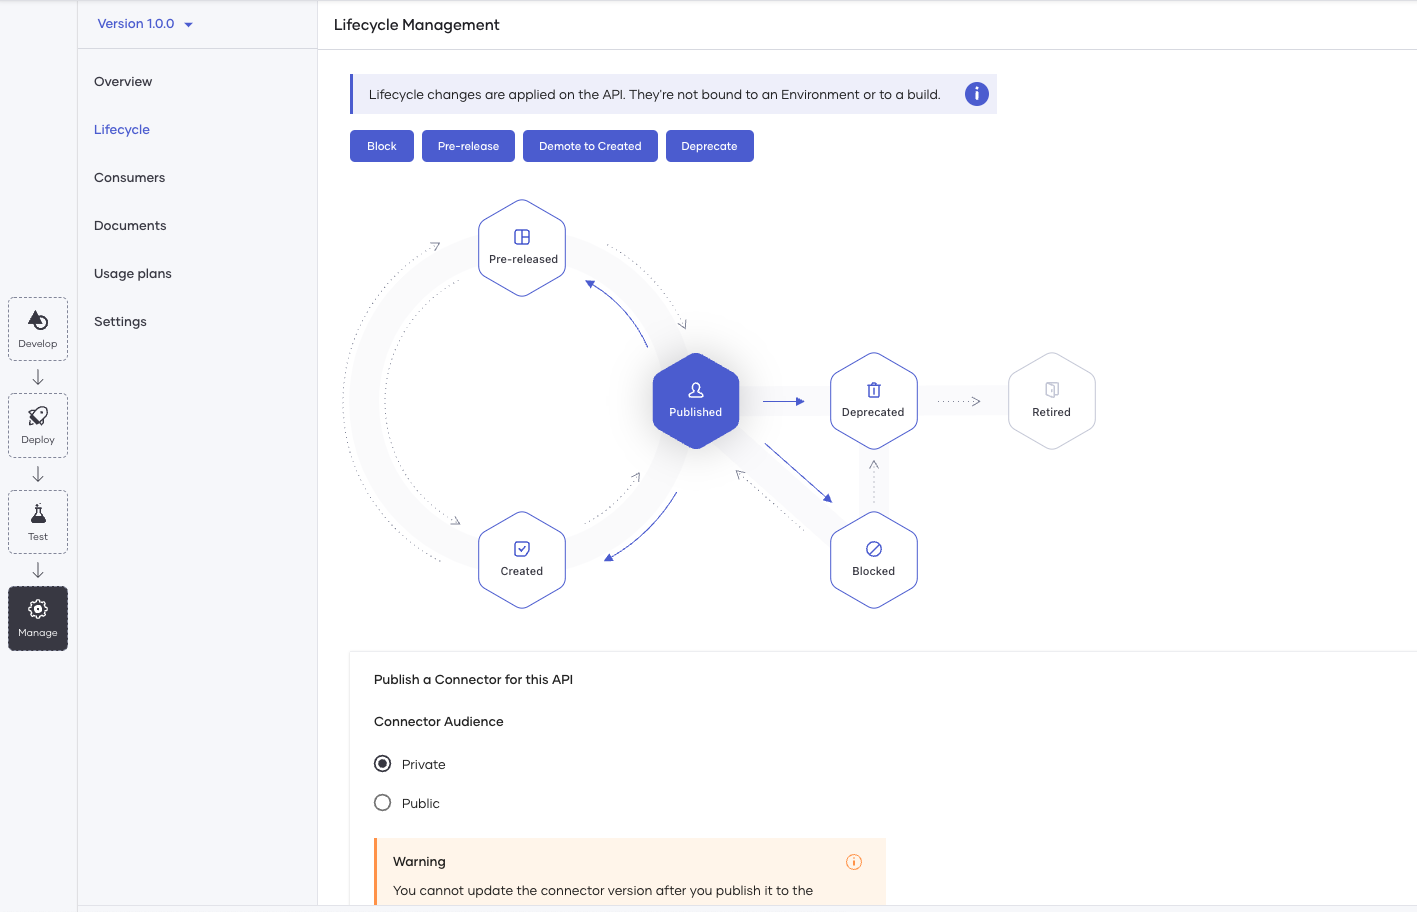
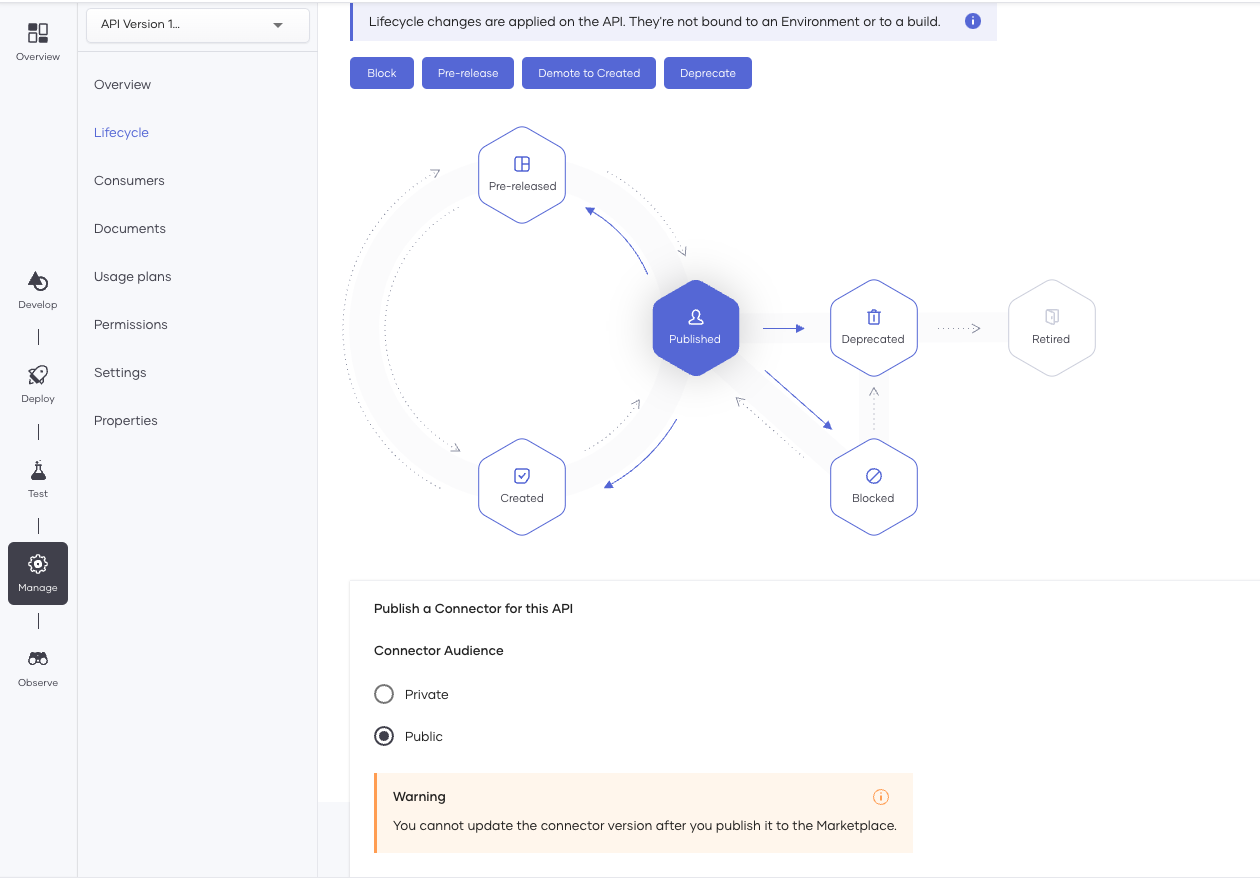
Fix 18088 and remove private github repo references

diff --git a/en/docs/develop/components/rest-api.md b/en/docs/develop/components/rest-api.md
@@ -14,19 +14,19 @@ Choreo’s low-code editor allows developers to design (and develop) high-qualit
 
 Choreo allows you to design your REST API in three possible ways as shown in the image below:
 
-![Create REST API](../../assets/img/rest-apis/create-a-rest-api.png){.cInlineImage-half}
+![Create REST API](../../assets/img/rest-apis/create-a-rest-api.png){.cInlineImage-small}
 
 - **Start from scratch**
 
     You can design a REST API via Choreo’s low-code editor that allows developers to design (and develop) high-quality REST APIs with ease. This method involves designing the REST API from scratch by manually specifying the resources, the HTTP verbs, paths, and other required elements.
   
-    ![Add resource](../../assets/img/rest-apis/add-resource.png){.cInlineImage-full}
+    ![Add resource](../../assets/img/rest-apis/add-resource.png){.cInlineImage-threeQuarter}
 
     Choreo allows developers to easily specify input and output data formats for each API resource:
 
-    ![Configure request payload](../../assets/img/rest-apis/configure-request-payload.png){.cInlineImage-full}
+    ![Configure request payload](../../assets/img/rest-apis/configure-request-payload.png){.cInlineImage-threeQuarter}
 
-    ![Configure response](../../assets/img/rest-apis/configure-response.png){.cInlineImage-full}
+    ![Configure response](../../assets/img/rest-apis/configure-response.png){.cInlineImage-threeQuarter}
 
 - **Connect existing Ballerina repository**
 
@@ -36,40 +36,28 @@ Choreo allows you to design your REST API in three possible ways as shown in the
 
   If you have an existing REST API written in any programming language, you can deploy it in Choreo. To do this, you must generate a Docker image for the REST API and save the Dockerfile in a private GitHub repository. When you connect this GitHub repository to Choreo, you can build the Dockerfile to pull the REST API implementation from the Docker image.
 
-
 ## Developing a REST API
 
-Choreo supports spec-driven API development. Once you have carefully designed and defined your API, you can start implementing the functionality of your API. Choreo comes with an online IDE based on Visual Studio Code for developers to implement API functionality. With its support for both low-code and pro-code modes to implement APIs and the flexibility to alternate between the modes during development, Choreo makes API development easy, smooth, and developer-friendly.
+Choreo supports spec-driven API development. Once you have carefully designed and defined your API, you can start implementing the functionality of your API. Choreo allows you to link a GitHub project when creating the REST API. You can implement your API as a [Ballerina](https://ballerina.io/) project or as in any language as a Docker container and store in the GitHub repo. Alternatively, if you are selecting the Ballerina preset when creating the REST API, you can link an empty GitHub repository, and then proceed to implement it before deploying the REST API. 
 
-### Low-code mode
-
-The following image shows the low-code diagram view in Choreo for a simple API designed to retrieve information such as population and GDP for a specified country. Here, the [World Bank connector](https://lib.ballerina.io/ballerinax/worldbank/1.2.0) extracts the required data and sends the extracted data as a JSON response.
-
-![Low-code view](../../assets/img/rest-apis/low-code-view.png){.cInlineImage-full}
-
-The low-code programming model allows developers to use general programming constructs such as loops, conditional statements, variable declarations and assignments, logs, data transformations(visual data mapping), and more in a graphical editor. It also allows developers to connect to built-in or custom-developed connectors.
-
-The main advantage of the low-code programming mode is that it can increase developer productivity multiple folds by eliminating the need to write complex code. As developers use constructs on the low-code editor to implement the API, the IDE automatically writes the corresponding [Ballerina](https://ballerina.io/) source code for the API, which significantly speeds up the developer learning process and boosts overall productivity.
-
-### Pro-code mode
-
-The pro-code mode of Choreo allows developers to directly edit code in a manner where the graphical representation in the low-code editor gets updated accordingly. Choreo also allows viewing the low-code and pro-code editors side-by-side.
-
-![Low code and pro-code view](../../assets/img/rest-apis/low-code-and-pro-code-view.png){.cInlineImage-full}
-
-Choreo gives developers the flexibility to use the pro-code mode only or to use it for implementing specific parts of the API while using the low-code mode for the rest, based on their preference. Choreo treats the source code (generated and handwritten) as the single source of truth and has no limitations or restrictions on the mode you can choose to implement API functionality.
+WSO2 provides a [Ballerina extension for Visual Studio Code](https://marketplace.visualstudio.com/items?itemName=WSO2.ballerina) which you can use to eaasily develop your REST API as a Ballerina project.
 
 ## Lifecycle of a REST API
 
-Once you implement a REST API, it needs to be built, tested, and eventually put into production. Choreo executes a CI/CD pipeline to manage the API lifecycle. Choreo stores the source code of APIs in a private GitHub repository for the user account. It also provides the capability for developers to connect their own GitHub repositories containing the source code of their APIs. The CI/CD pipeline in Choreo takes an API through the complete process, starting from code checkout to compile, build, test, and finally deploy.
+Once you implement a REST API, it needs to be built, tested, and eventually put into production. You can apply any of the six API lifecycles states (i.e., created, pre-released, published, blocked, deprecated, and retired) while adhering to their respective lifecycle flows.
+
+When you publish an API, you can also publish a connector for that API to make it available on the Choreo Marketplace.
+
 
 ## Deploying a REST API
 
 The following diagram illustrates the procedure to deploy an API in Choreo to the default development environment.
 
-![Deploy API](../../assets/img/rest-apis/deploy-api.png){.cInlineImage-full}
+![Deploy API](../../assets/img/rest-apis/deploy-api.png){.cInlineImage-small}
 
 Choreo runs a professional, enterprise-grade CI/CD process to deploy APIs to their runtime(data plane) clusters. The data plane of Choreo runs on a Kubernetes stack under the hood. Therefore, you can benefit from its features such as auto-scaling, auto-healing, secret-management, liveness and readiness checks, etc.
+
+Choreo provides the capability for developers to connect their own GitHub repositories containing the source code of their APIs. The CI/CD pipeline in Choreo takes an API through the complete process, starting from code checkout to compile, build, test, and finally deploy.
 
 Once you deploy a REST API to the development environment, it gets exposed through an API Gateway with API security enabled. At this time, Choreo provides a test URL for the API, which you can use to verify the functionality of the API.
 
@@ -77,7 +65,7 @@ Once you deploy a REST API to the development environment, it gets exposed throu
 
 Choreo provides a development environment by default and a production environment in two separate Kubernetes clusters. Once you deploy an API to the development environment and verify its functionality, you can promote the API to the production environment.
 
-![Deploy view](../../assets/img/rest-apis/deploy-promote.png){.cInlineImage-full}
+![Deploy view](../../assets/img/rest-apis/deploy-promote.png){.cInlineImage-threeQuarter}
 
 Once you promote an API to production, Choreo provides a second URL that you can use in a production application to invoke the API.
 
@@ -85,7 +73,7 @@ Once you promote an API to production, Choreo provides a second URL that you can
 
 Choreo provides API management capabilities by default for REST APIs (and other APIs) so that you can manage the exposure of APIs to consumers. Choreo API management capabilities also allow you to configure API security settings, set rate limits, associate usage plans, provide other documentation, and perform other related functions to govern the API. The following image shows how you can execute the consumer-facing lifecycle of an API.
 
-![Manage API lifecycle](../../assets/img/rest-apis/api-lifecycle-manage.png){.cInlineImage-full}
+![Manage API lifecycle](../../assets/img/rest-apis/api-lifecycle-manage.png){.cInlineImage-threeQuarter}
 
 The inbuilt Choreo Developer Portal makes it easy for consumers to consume published APIs. Application developers can discover and invoke published APIs via the Choreo Developer Portal. To learn more about the Choreo Developer portal, see [Developer Portal](../../consume/developer-portal.md)).
 

diff --git a/en/docs/develop/components/api-proxy.md b/en/docs/develop/components/api-proxy.md
@@ -37,13 +37,13 @@ The following diagram illustrates the process of deploying an API in Choreo to t
 
 ![Deploy API ](../../../assets/img/api-proxies/deploy-api-proxies.png){.cInlineImage-threeQuarter}
 
-Choreo runs a professional, enterprise-grade CI/CD process to deploy APIs to its runtime(data plane) clusters. Under the hood, Choreo's data plane runs on a Kubernetes stack, hence benefits from all its features such as auto-scaling, auto-healing, secret management, liveness, readiness checks, and so on.
+Choreo runs a professional, enterprise-grade CI/CD process to deploy APIs to its runtime(data plane) clusters. Under the hood, Choreo's data plane runs on a Kubernetes stack, hence benefits from all its features such as auto-scaling, auto-healing, secret management, liveness, readiness checks, and so on. This CI/CD pipeline needs to be manually managed by you via the Choreo console. 
 
-Once you deploy the REST API to the development environment, it is then exposed by an API Gateway with API security turned on. Developers get a testable URL for their API which they can use to verify the functionality of the API they implemented.
+Once you deploy the REST API to the development environment, it is then exposed through Choreo with API security turned on. Developers get a testable URL for their API which they can use to verify the functionality of the API they implemented.
 
 You may set up a separate sandbox environment to test the API proxy before pushing it to production. To deploy the API proxy to both the sandbox environment and the development environment, enter the test environment URL as the sandbox endpoint and the API backend URL as the endpoint.
 
-![Sandbox URL](../../../assets/img/rest-apis/sandbox-url.png){.cInlineImage-threeQuarter}
+![Sandbox URL](../../../assets/img/rest-apis/sandbox-url.png){.cInlineImage-small}
 
 ## Choreo environments
 
@@ -85,7 +85,9 @@ API Management is automatically turned on in REST API Proxies (and other APIs) o
 
 ### Lifecycle of a REST API Proxy
 
-Once you implement a REST API Proxy, it needs to be built, tested, and eventually put into production. Choreo executes a CI/CD pipeline that manages the API’s Lifecycle. Choreo stores the source code of APIs in a private Github repository for the user account. It also provides the capability for developers to hook in their own Github repositories containing the source code of their APIs(coming soon). The CI/CD pipeline in Choreo takes an API through the whole process, starting with code checkout, to compile, build, test, and finally to deployment.
+Once you implement a REST API Proxy, it needs to be tested, deployed, and eventually put into production. Once you deploy the REST API Proxy, you can apply any of the six API lifecycles states (i.e., created, pre-released, published, blocked, deprecated, and retired) while adhering to their respective lifecycle flows.
+
+When you publish an API, you can also publish a connector for that API to make it available on the Choreo Marketplace.
 
 ![Manage API Proxies](../../../assets/img/api-proxies/manage-api-proxies.png){.cInlineImage-threeQuarter}
 
